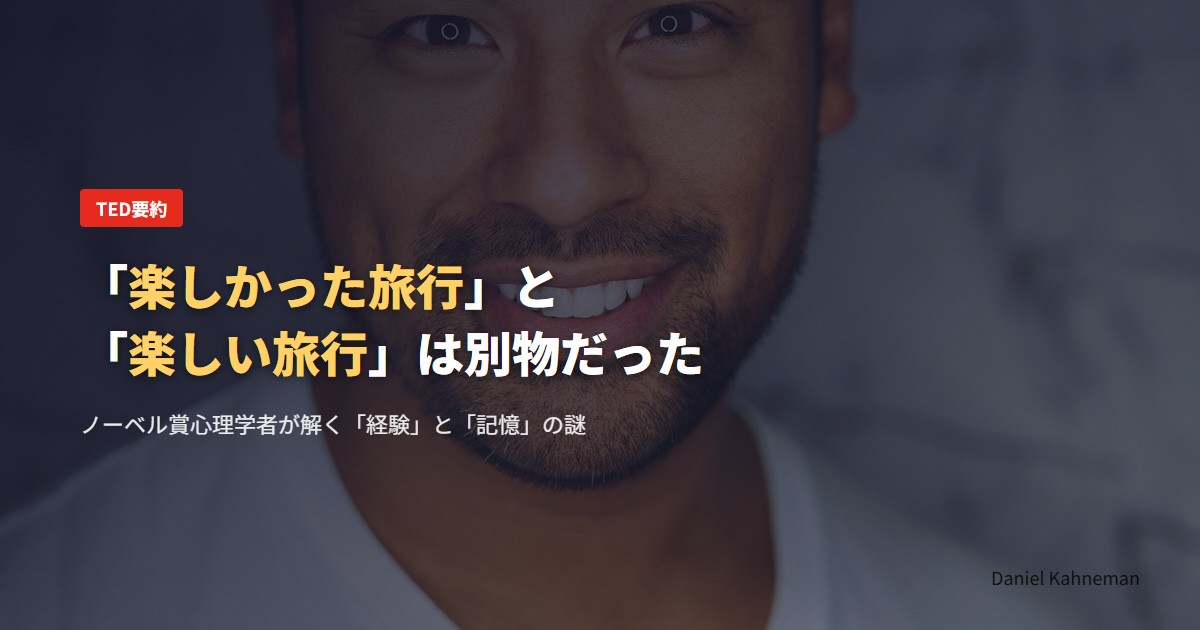
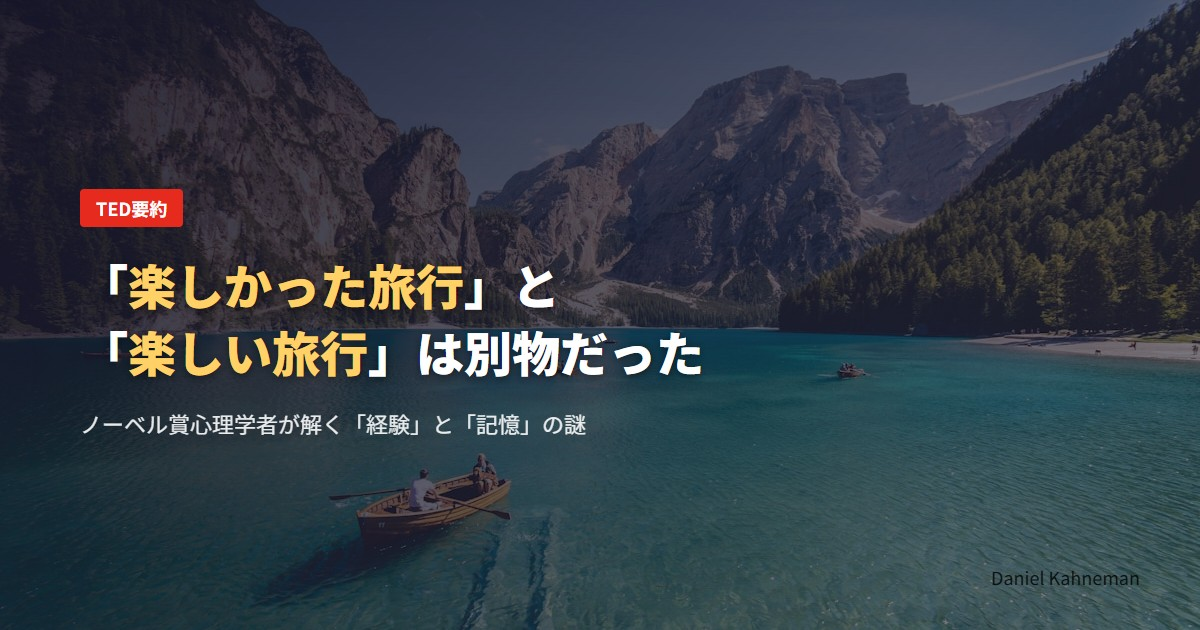
Fix: サムネイル画像を変更（旅行の風景画像に）

diff --git a/gen-thumbnail.js b/gen-thumbnail.js
@@ -22,7 +22,7 @@ const path = require('path');
     position: relative;
     width: 1200px;
     height: 630px;
-    background: url('https://images.unsplash.com/photo-1507003211169-0a1dd7228f2d?w=1200&q=80&fit=crop') center/cover no-repeat;
+    background: url('https://images.unsplash.com/photo-1501785888041-af3ef285b470?w=1200&q=80&fit=crop') center/cover no-repeat;
   }
   .overlay {
     position: absolute;
